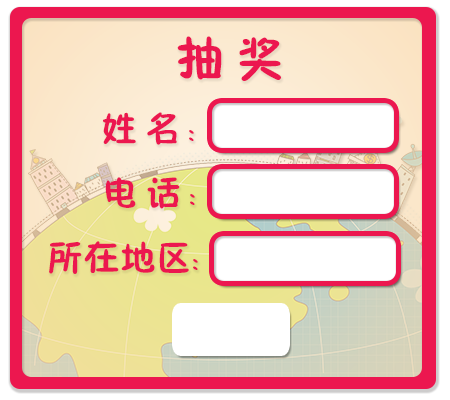
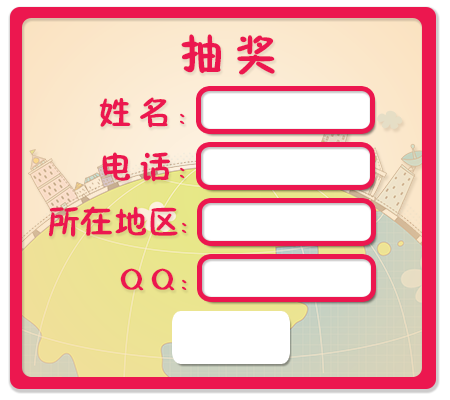
add static html

Changed region(s): [[0.0933, 0.09, 0.9022, 0.81], [0.3733, 0.87, 0.6533, 0.93]]

diff --git a/resource/htmls/index2.html b/resource/htmls/index2.html
@@ -46,11 +46,13 @@ body{background:#f9ddb4;margin:0;}
 .dt_main .center .answer span{padding-left:10px;display:inline-block;width:40%;color:#eb174e;height:30px;line-height:30px;margin:5px 0 5px 10px;font-family:'微软雅黑';font-weight:bold;font-size:18px;}
 .dt_main .center .answer .title{font-size:20px;font-family:'微软雅黑';font-weight:bold;color:#eb174e;text-indent:70px;line-height:160%;margin-bottom:10px;}
 
-.form{width:400px;margin:0 auto;padding:106px 0 0 0;text-align:right;}
-.input1{height:40px;width:170px;margin-right:35px;border:0;outline:none;font-weight:bold;font-family:'微软雅黑';font-size:30px;margin-bottom:26px;color:#eb174e;}
-.select1{height:40px;width:170px;margin-right:35px;border:0;outline:none;font-weight:bold;font-family:'微软雅黑';font-size:30px;margin-bottom:26px;color:#eb174e;}
-.select1{height:40px;width:170px;margin-right:35px;border:0;outline:none;font-weight:bold;font-family:'微软雅黑';font-size:30px;margin-bottom:26px;color:#eb174e;}
-.button1{background:url(images/tj.png) no-repeat;border:0px;width:110px;height:45px;margin:3px 139px 0 0;cursor:pointer;}
+.form{width:400px;margin:0 auto;padding:93px 0 0 0;text-align:right;}
+.form1{width:400px;margin:0 auto;padding:148px 23px 0 0;text-align:right;}
+.input1{height:35px;line-height:35px;width:155px;margin-right:62px;border:0;outline:none;font-weight:bold;font-family:'微软雅黑';font-size:20px;margin-bottom:21px;color:#eb174e;}
+.input2{height:35px;line-height:35px;width:155px;margin-right:62px;border:0;outline:none;font-weight:bold;font-family:'微软雅黑';font-size:20px;margin-bottom:21px;color:#eb174e;}
+.input3{height:35px;line-height:35px;width:170px;border:0;outline:none;font-weight:bold;font-family:'微软雅黑';font-size:20px;color:#eb174e;margin-right:23px;margin-top:5px;margin-bottom:33px;}
+.select1{height:35px;line-height:30px;width:155px;margin-right:62px;border:0;outline:none;font-weight:bold;font-family:'微软雅黑';font-size:20px;margin-bottom:21px;color:#eb174e;}
+.button1{background:url(images/tj.png) no-repeat;border:0px;width:110px;height:45px;margin:-2px 139px 0 0;cursor:pointer;}
 .button1:hover{background:url(images/tj1.png) no-repeat;}
 .button2{background:url(images/again1.png) no-repeat;border:0px;width:173px;height:45px;margin:193px 0 0 172px;cursor:pointer;}
 .button2:hover{background:url(images/again2.png) no-repeat;}
@@ -70,6 +72,9 @@ body{background:#f9ddb4;margin:0;}
 .button9:hover{background:url(images/fh1.png) no-repeat;}
 
 .tishi1{width:450px;height:400px;background:url(images/chuji1.png) no-repeat;margin:150px auto;}
+
+.img{width:140px;height:48px;vertical-align:middle;margin-top:-5px;}
+
 .tips{z-index:95;position:absolute;top:0;left:0;display:block;width:100%;height:100%;text-align:center;}
 .tips1{background:url(images/cj.png) no-repeat;width:450px;height:400px;margin:150px auto;}
 .tips2{background:url(images/dc.png) no-repeat;width:620px;height:320px;margin:150px auto;}
@@ -80,13 +85,14 @@ body{background:#f9ddb4;margin:0;}
 .tips7{background:url(images/zhongji1.png) no-repeat;width:450px;height:400px;margin:150px auto;}
 .tips8{background:url(images/gaoji1.png) no-repeat;width:450px;height:400px;margin:150px auto;}
 .tips9{background:url(images/tjcg.png) no-repeat;width:620px;height:320px;margin:150px auto;}
+.tips10{background:url(images/yzm.png) no-repeat;width:620px;height:320px;margin:150px auto;}
 .shadow{background:#000;z-index:90;position:absolute;top:0;left:0;display:block;width:100%;height:100%; opacity:0.5;}
 </style></head>
 
 <body>
 
 	<div class="tips">
-    	<div class="tips1">
+    	<div class="tips1" style="display:none;">
             <form class="form" action="" method="get">
                 <input name="" type="text" class="input1" /><br />
                 <input name="" type="text" class="input1" /><br />
@@ -99,6 +105,7 @@ body{background:#f9ddb4;margin:0;}
                   <option value="1">四川</option>
                   <option value="1">宁夏</option>
                 </select><br />
+                <input name="" type="text" class="input1" /><br />
                 <input name="" type="button" class="button1" />
             </form>
         </div>
@@ -131,6 +138,12 @@ body{background:#f9ddb4;margin:0;}
         </div>
     	<div class="tips9" style="display:none;">
             <input name="" type="button" class="button9" />
+        </div>
+    	<div class="tips10">
+            <form action="" method="get" class="form1">
+                <input name="" type="text" class="input3" /><img src="http://static.googleadsserving.cn/pagead/imgad?id=CICAgIDQ9L6RWhDSAhhKMgjE4jKv9he_9A" alt="" class="img" />
+                <input name="" type="button" class="button1" style="margin-right:130px;" />
+            </form>
         </div>
     </div>
     
